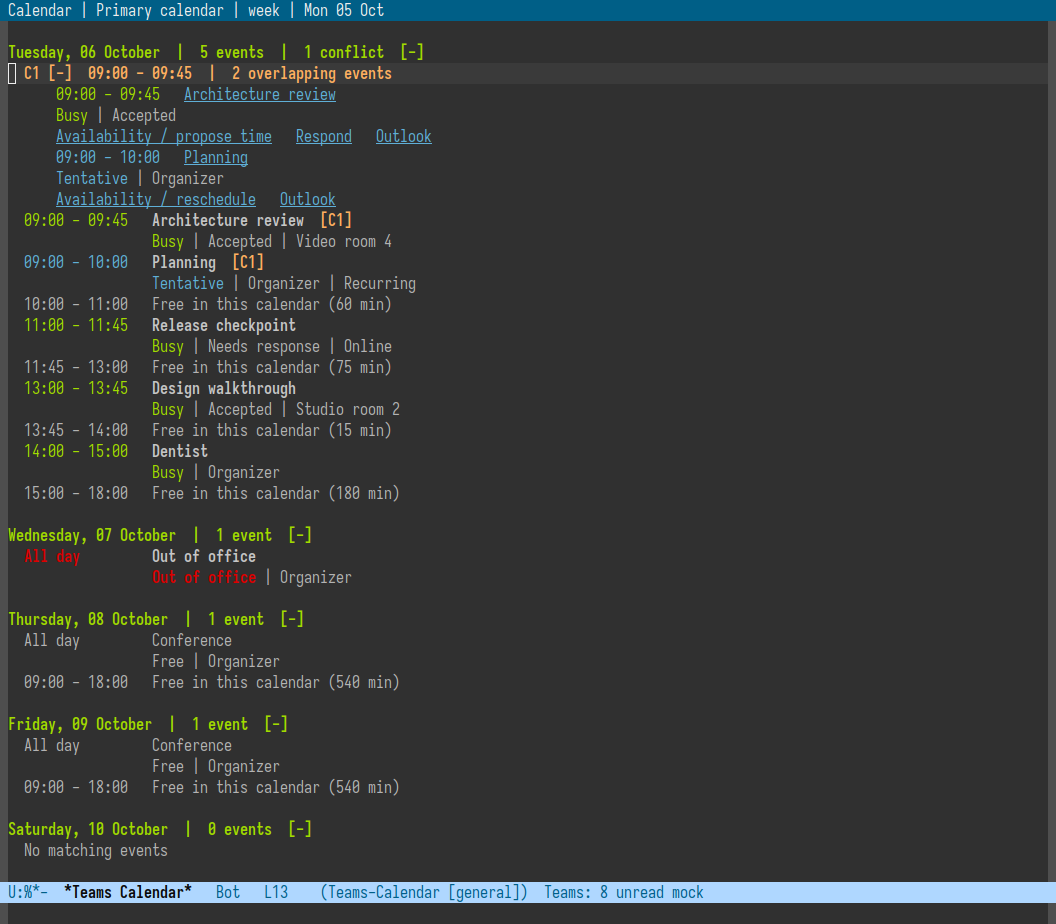
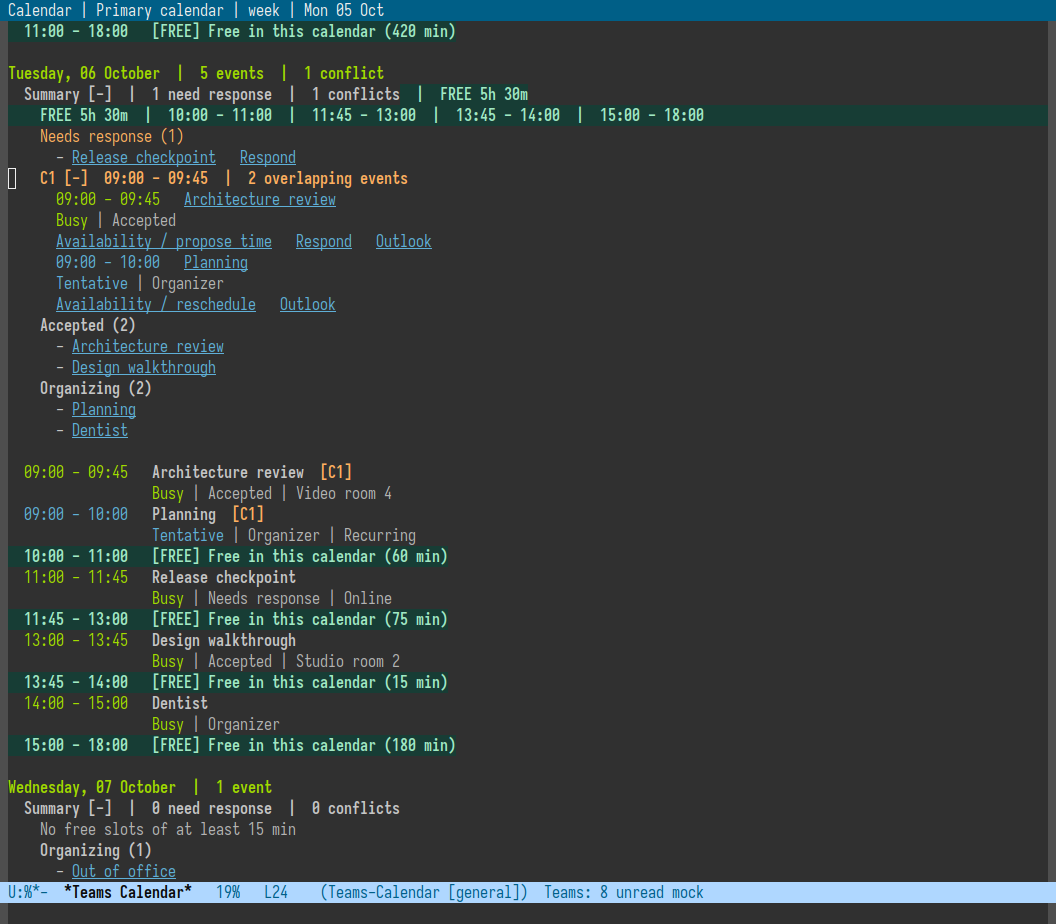
Refresh calendar screenshots with real Moe summaries and Org drafts

Changed region(s): [[0.0, 0.0, 1.0, 0.9697], [0.25, 0.9394, 0.2812, 0.9697], [0.1875, 0.9394, 0.2188, 0.9697]]

diff --git a/CALENDAR.md b/CALENDAR.md
@@ -198,6 +198,12 @@ authorized `Calendars.ReadWrite`; teams4e does not request more permissions.
 Teams-link availability depends on the account/calendar's supported providers.
 See Microsoft's [create-event API](https://learn.microsoft.com/en-us/graph/api/calendar-post-events?view=graph-rest-1.0).
 
+![Org meeting draft beside the agenda in real Emacs with Moe](assets/calendar-draft.png)
+
+The calendar images use synthetic data in Emacs 29.3 with Moe Dark and Iosevka.
+See [capture provenance](assets/calendar-capture.json) and the
+[folded summary with its timeline still visible](assets/calendar-summary-closed.png).
+
 ## Follow: Current Limitation
 
 Official documentation checked on 2026-10-05. Outlook's **Follow** is a distinct
